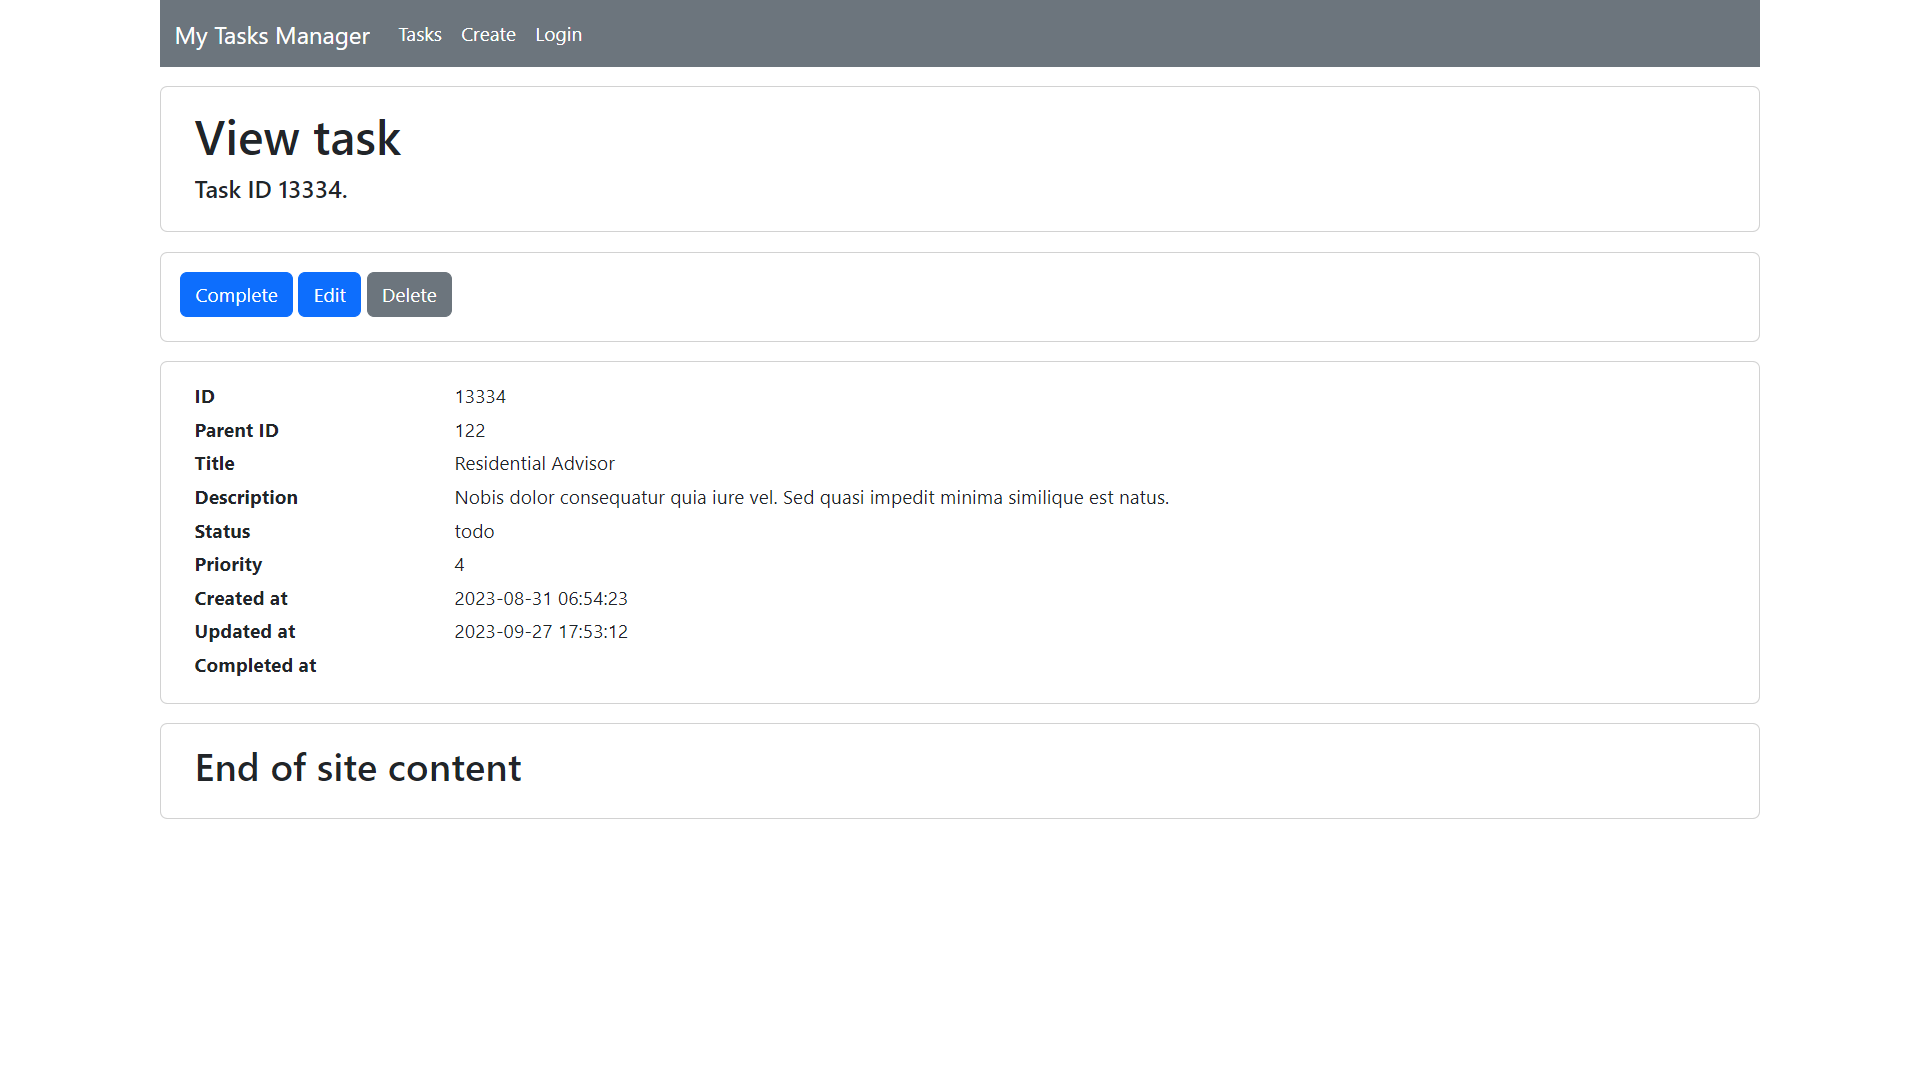
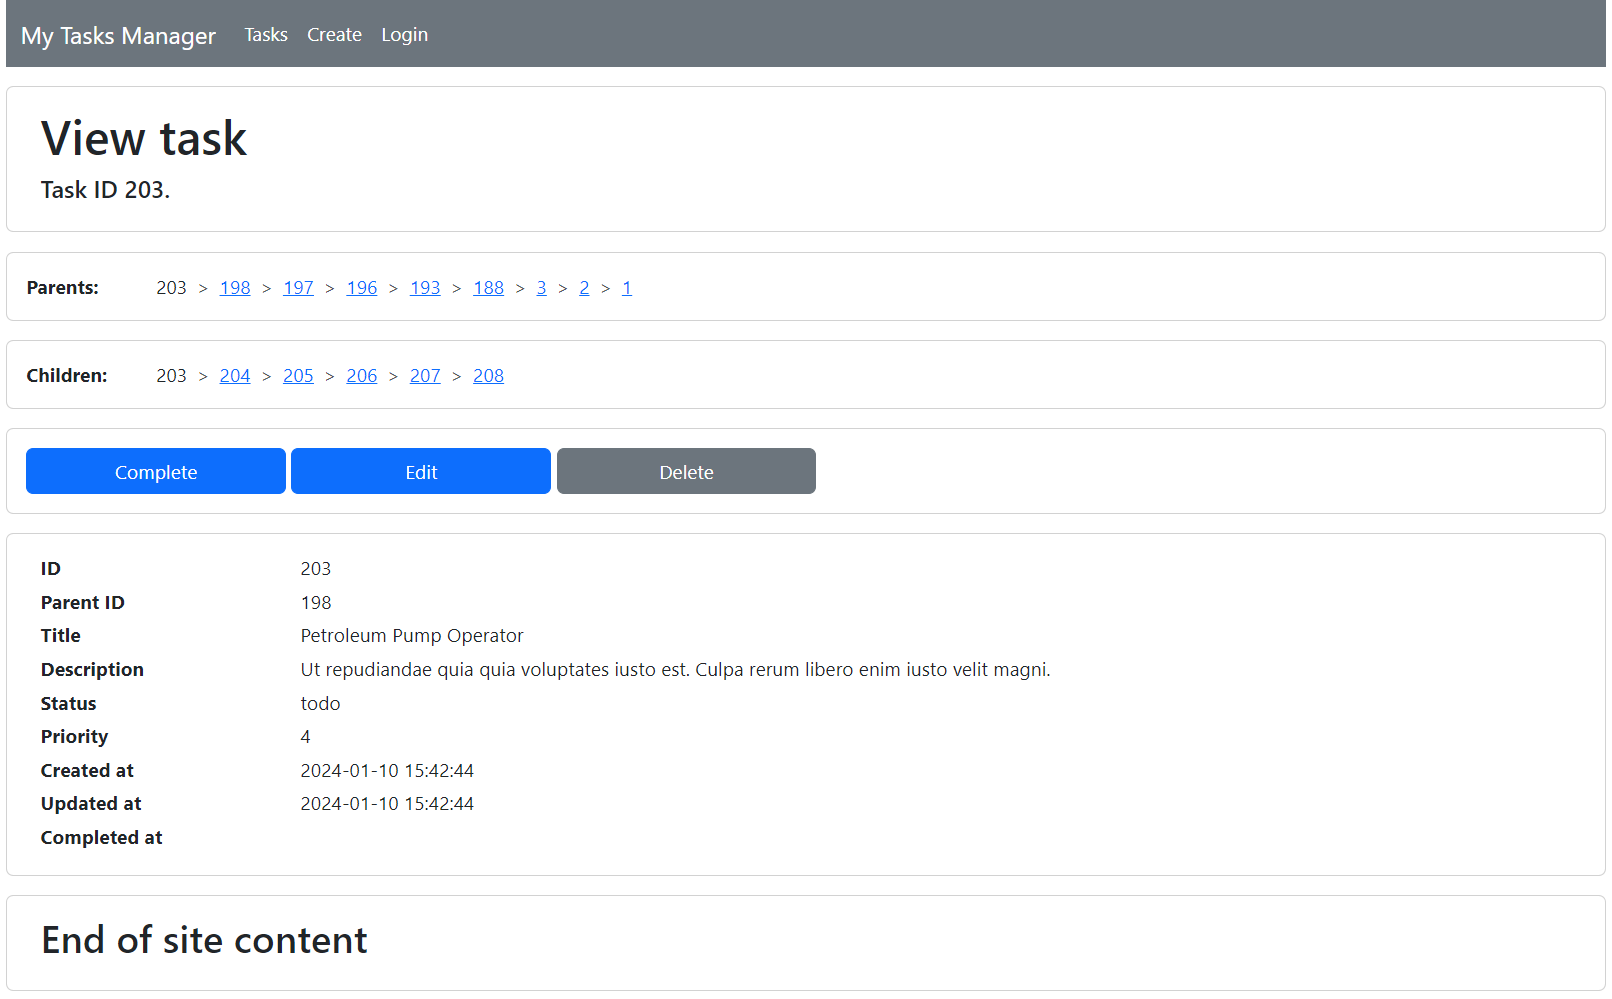
Added BreadCrumbs navigation to the Task show tamplate, refactoring Task Model, TaskRepository, web\Task\ShowController, Services

diff --git a/app/Services/Task/ShowService.php b/app/Services/Task/ShowService.php
@@ -5,9 +5,11 @@ declare(strict_types=1);
 namespace App\Services\Task;
 
 use App\Exceptions\Task\ServiceException;
+use App\Models\Task;
 use App\Repositories\TaskRepository;
 use App\Services\AbstractService;
 use App\Services\ResponseService;
+use Illuminate\Support\Collection;
 
 class ShowService extends AbstractService
 {
@@ -18,15 +20,110 @@ class ShowService extends AbstractService
     {
     }
 
+    /**
+     * @throws ServiceException
+     */
     public function show(int $id): ResponseService
     {
         $result = $this->task->getById($id);
 
+        $this->setOrException($result, $id);
+
+        return $this->response;
+    }
+
+    /**
+     * @throws ServiceException
+     */
+    public function showWithBranches(int $id): ResponseService
+    {
+        $result = $this->task->getByIdWithBranches($id);
+
+        $this->setOrException($result, $id);
+
+        return $this->response;
+    }
+
+    /**
+     * @throws ServiceException
+     */
+    public function showWithChildren(int $id): ResponseService
+    {
+        $result = $this->task->getByIdWithChildren($id);
+
+        $this->setOrException($result, $id);
+
+        return $this->response;
+    }
+
+    /**
+     * @throws ServiceException
+     */
+    public function showWithParent(int $id): ResponseService
+    {
+        $result = $this->task->getByIdWithParent($id);
+
+        $this->setOrException($result, $id);
+
+        return $this->response;
+    }
+
+    /**
+     * @throws ServiceException
+     */
+    public function showWithParents(int $id): ResponseService
+    {
+        $result = $this->task->getByIdWithParents($id);
+
+        $this->setOrException($result, $id);
+
+        return $this->response;
+    }
+
+    /**
+     * @throws ServiceException
+     */
+    public function getChildrenId(object $result, string $relation): ResponseService
+    {
+        $relateId = [];
+
+        foreach ($result->$relation as $children) {
+            $relateId[] = $children->id;
+        }
+        $collect = collect($relateId);
+        $this->setOrException($collect, $result->id);
+
+        return $this->response;
+    }
+
+    /**
+     * @throws ServiceException
+     */
+    public function getRelationId(object $result, string $relation): ResponseService
+    {
+        $relateId = [];
+        if ($relation == 'children') {
+            dd($result);
+        }
+        while ($result->$relation) {
+            $relateId[] = $result->$relation->id;
+            $result = $result->$relation;
+        }
+        $collect = collect($relateId);
+        $this->setOrException($collect, $result->id);
+
+        return $this->response;
+    }
+
+    /**
+     * @throws ServiceException
+     */
+    private function setOrException(null|Collection|Task $result, int $id): void
+    {
         if ($result) {
             $this->response->setShowData($id, $result);
         } else {
             throw new ServiceException(__('task.not_found', ['id' => $id]),);
         }
-        return $this->response;
     }
 }

diff --git a/app/Models/Task.php b/app/Models/Task.php
@@ -5,6 +5,7 @@ namespace App\Models;
 use Illuminate\Database\Eloquent\Factories\HasFactory;
 use Illuminate\Database\Eloquent\Model;
 use \Illuminate\Database\Eloquent\Relations\BelongsTo;
+use Illuminate\Database\Eloquent\Relations\HasMany;
 
 class Task extends Model
 {
@@ -30,8 +31,39 @@ class Task extends Model
     ];
 
     /**
-     * @return BelongsTo
+     * recursively return all direct children and all their branches
      */
+    public function branches(): HasMany
+    {
+        return $this->hasMany(Task::class, 'parent_id')
+            ->with('branches');
+    }
+
+    /**
+     * return all direct children
+     */
+    public function children(): HasMany
+    {
+        return $this->hasMany(Task::class, 'parent_id');
+    }
+
+    /**
+     * return the direct parent
+     */
+    public function parent(): BelongsTo
+    {
+        return $this->belongsTo(Task::class, 'parent_id');
+    }
+
+    /**
+     * recursively return all parents
+     */
+    public function parents(): BelongsTo
+    {
+        return $this->belongsTo(Task::class, 'parent_id')
+            ->with('parents');
+    }
+
     public function user(): BelongsTo
     {
         return $this->belongsTo(User::class);

diff --git a/app/Http/Controllers/Web/Task/ShowController.php b/app/Http/Controllers/Web/Task/ShowController.php
@@ -15,12 +15,23 @@ class ShowController extends Controller
 
     public function show(int $id): View
     {
-        $this->answerService->setAnswer(Show::show($id));
+        $this->answerService->setAnswer(Show::showWithParents($id));
 
         $title = __('task.web.show_');
         $help = __('task.show', ['id' => $id]);
         $task = $this->answerService->answerData->getPropData();
 
-        return view('tasks.task_show', compact('task', 'help', 'title'));
+        $this->answerService->setAnswer(Show::getRelationId($task, 'parents'));
+        $relationId = $this->answerService->answerData->getData();
+
+        $this->answerService->setAnswer(Show::showWithChildren($id));
+        $task = $this->answerService->answerData->getData();
+
+        $this->answerService->setAnswer(Show::getChildrenId($task, 'children'));
+        $childrenId = $this->answerService->answerData->getData();
+
+        return view('tasks.task_show', compact(
+            'task', 'relationId', 'childrenId', 'help', 'title'
+        ));
     }
 }

diff --git a/app/Repositories/TaskRepository.php b/app/Repositories/TaskRepository.php
@@ -32,6 +32,35 @@ class TaskRepository
             ->first();
     }
 
+
+    public function getByIdWithBranches(int $id): ?Task
+    {
+        return User::find(Auth::id())->tasks()->with(['branches'])
+            ->where('id', $id)
+            ->first();
+    }
+
+    public function getByIdWithChildren(int $id): ?Task
+    {
+        return User::find(Auth::id())->tasks()->with(['children'])
+            ->where('id', $id)
+            ->first();
+    }
+
+    public function getByIdWithParent(int $id): ?Task
+    {
+        return User::find(Auth::id())->tasks()->with(['parent'])
+            ->where('id', $id)
+            ->first();
+    }
+
+    public function getByIdWithParents(int $id): ?Task
+    {
+        return User::find(Auth::id())->tasks()->with(['parents'])
+            ->where('id', $id)
+            ->first();
+    }
+
     public function getTask(): ?Collection
     {
         return User::find(Auth::id())->tasks()->get();

diff --git a/database/migrations/2023_07_31_091529_create_tasks_table.php b/database/migrations/2023_07_31_091529_create_tasks_table.php
@@ -18,13 +18,14 @@ return new class extends Migration {
             $table->smallInteger('priority')->default(1);
             $table->string('title');
             $table->longText('description');
-            $table->timestamp('created_at');
-            $table->timestamp('updated_at');
-            $table->timestamp('completed_at')->default(null);
+            $table->timestamps();
+            $table->timestamp('completed_at')->nullable();
             $table->index('user_id');
             $table->index('priority');
             $table->index('parent_id');
-            $table->fullText('title');
+            $table->fullText(['title', 'description']);
+            $table->foreign('parent_id')->references('id')
+                ->on('tasks')->onUpdate('cascade')->onDelete('cascade');
             $table->engine = 'InnoDB';
         });
     }

diff --git a/resources/views/layouts/breadcrumbs/task_children.blade.php b/resources/views/layouts/breadcrumbs/task_children.blade.php
@@ -1,0 +1,14 @@
+<div class="card mb-3">
+    <div class="card-body">
+        <nav style="--bs-breadcrumb-divider: '>';" aria-label="breadcrumb">
+            <ol class="breadcrumb mb-md-0">
+                <li class="col-sm-1 fw-bold">{{__('task.breadcrumbs.children') }}</li>
+                <li class="breadcrumb-item" aria-current="page">{{ $task->id }}</li>
+                @foreach($childrenId as $id)
+                    <li class="breadcrumb-item"><a href="{{ route('web.show', [$id]) }}">{{ $id }}</a></li>
+                @endforeach
+            </ol>
+        </nav>
+    </div>
+</div>
+

diff --git a/resources/views/layouts/breadcrumbs/task_parents.blade.php b/resources/views/layouts/breadcrumbs/task_parents.blade.php
@@ -1,0 +1,13 @@
+<div class="card mb-3">
+    <div class="card-body">
+        <nav style="--bs-breadcrumb-divider: '>';" aria-label="breadcrumb">
+            <ol class="breadcrumb mb-md-0">
+                <li class="col-sm-1 fw-bold">{{__('task.breadcrumbs.parents') }}</li>
+                <li class="breadcrumb-item" aria-current="page">{{ $task->id }}</li>
+                @foreach($relationId as $id)
+                    <li class="breadcrumb-item"><a href="{{ route('web.show', [$id]) }}">{{ $id }}</a></li>
+                @endforeach
+            </ol>
+        </nav>
+    </div>
+</div>

diff --git a/app/Services/Task/CompleteService.php b/app/Services/Task/CompleteService.php
@@ -18,6 +18,9 @@ class CompleteService extends AbstractService
     {
     }
 
+    /**
+     * @throws ServiceException
+     */
     public function complete(int $id): ?ResponseService
     {
         if (empty($this->childStatus($id))) {
@@ -35,7 +38,10 @@ class CompleteService extends AbstractService
         return $this->task->getTaskChildStatus([$id, $id]);
     }
 
-    protected function setCompleteStatus(int $id): int
+    /**
+     * @throws ServiceException
+     */
+    public function setCompleteStatus(int $id): int
     {
         $result = $this->task->complete($id);
 

diff --git a/resources/lang/ua/task.php b/resources/lang/ua/task.php
@@ -1,6 +1,10 @@
 <?php
 
 return [
+    'breadcrumbs' => [
+        'children' => 'Нащадки:',
+        'parents' => 'Батьки:',
+    ],
     'complete' => "Завдання з ідентифікатором :id виконане і має статус 'done'",
     'complete_fail' => "Один або кілька дочірніх елементів завдання з ідентифікатором :id не виконані та мають статус 'todo'.",
     'create' => "Завдання створено успішно.",

diff --git a/database/factories/TaskFactory.php b/database/factories/TaskFactory.php
@@ -3,6 +3,7 @@
 namespace Database\Factories;
 
 use App\Enums\TaskStatusEnum;
+use App\Models\Task;
 use Illuminate\Database\Eloquent\Factories\Factory;
 
 /**
@@ -17,8 +18,9 @@ class TaskFactory extends Factory
      */
     public function definition(): array
     {
+
         return [
-            'parent_id' => rand(1, 128),
+            'parent_id' => Task::all()->last()->id,
             'user_id' => 1,
             'status' => TaskStatusEnum::TODO->value,
             'priority' => rand(1, 5),

diff --git a/resources/views/layouts/buttons/complete_task_button.blade.php b/resources/views/layouts/buttons/complete_task_button.blade.php
@@ -1,3 +1,2 @@
-<a type="button" class="btn btn-primary mb-1
-@if($task->status == 'done') disabled @endif"
-   href="{{ route('web.complete', [$task->id]) }}">{{ __('task.web.complete') }}</a>
+<a type="button" class="btn btn-primary col-2 @if($task->status == 'done') disabled @endif"
+    href="{{ route('web.complete', [$task->id]) }}">{{ __('task.web.complete') }}</a>

diff --git a/resources/views/layouts/buttons/del_task_button.blade.php b/resources/views/layouts/buttons/del_task_button.blade.php
@@ -1,3 +1,2 @@
-<a type="button" class="btn btn-secondary mb-1
-@if($task->status == 'done') disabled @endif"
-   href="{{ route('web.delete', [$task->id]) }}">{{ __('task.web.delete') }}</a>
+<a type="button" class="btn btn-secondary col-2 @if($task->status == 'done') disabled @endif"
+    href="{{ route('web.delete', [$task->id]) }}">{{ __('task.web.delete') }}</a>
